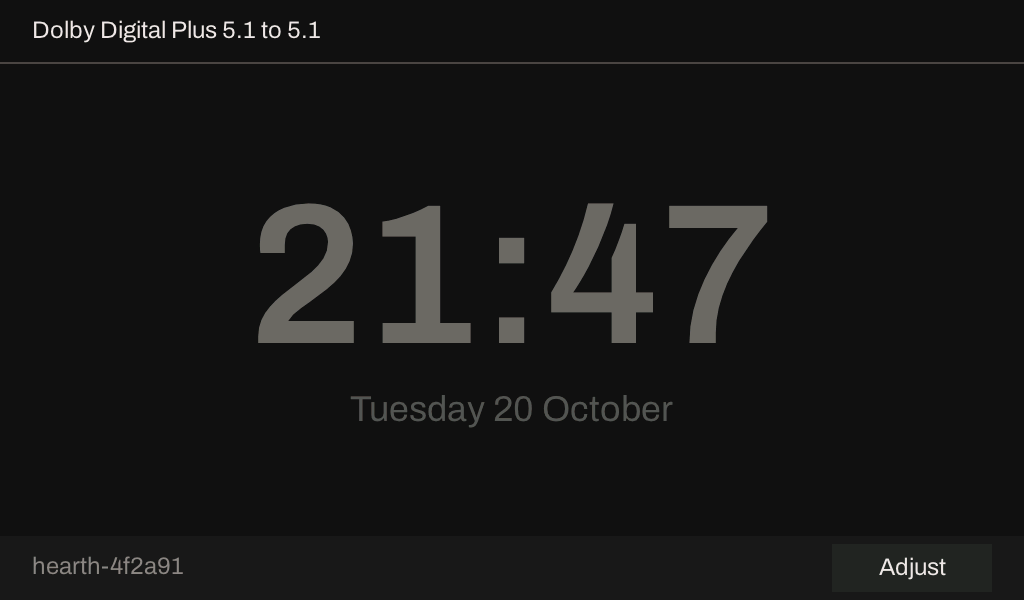
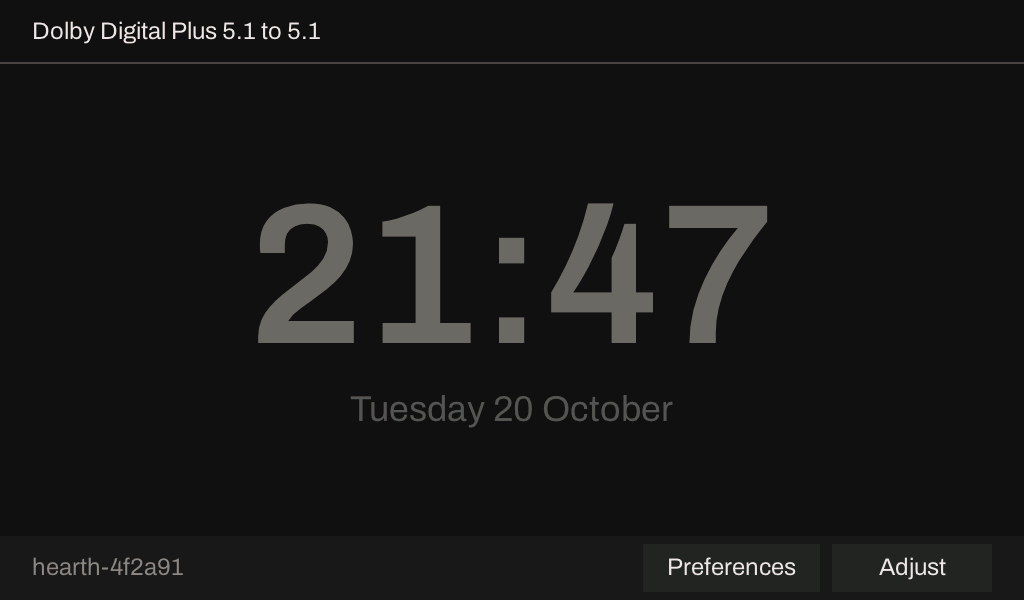
Docs: Adjust and Preferences, with their pictures retaken
The Preferences sheet's pictures (kit, a board with no touch, Dark chosen, and
320 by 240), the Adjust sheet, and every panel picture and the combined sheet
whose footer changed are retaken by panel_preview from the commit the manifest
names. The two pictures of the old Adjust sheet leave with their entries; the
planning page shows Preferences where it showed the third row.

Changed region(s): [[0.0312, 0.03, 0.3125, 0.09], [0.0312, 0.93, 0.1875, 0.96], [0.6562, 0.93, 0.7812, 0.96]]

diff --git a/planning/p4x-now-playing.md b/planning/p4x-now-playing.md
@@ -147,7 +147,7 @@ layout text changes.
 
 ![The speakers in a 5.1 room](../docs/hearth/screenshots/p4-panel-speakers-5-1.png)
 ![The speakers in a 7.1.4 room](../docs/hearth/screenshots/p4-panel-speakers-7-1-4.png)
-![The Adjust sheet with its third row](../docs/hearth/screenshots/p4-panel-controls.png)
+![Preferences, where the view and the dim time are now (they were Adjust's third row)](../docs/hearth/screenshots/p4-panel-prefs.png)
 ![The dark screen](../docs/hearth/screenshots/p4-panel-dimmed.png)
 
 ## The dark view
@@ -185,7 +185,7 @@ rule checked against `dimmed()` on every input it takes); the real screen code i
 which fails its run if the screen is not dark at the start, is not lit by a touch, is not lit at 28 s,
 is not dark at 32 s, or a second touch does not move it on (all pass); and a picture of the sheet:
 
-![The Adjust sheet with Dark chosen](../docs/hearth/screenshots/p4-panel-controls-dark.png)
+![Preferences with Dark chosen: the dim row says it is not used](../docs/hearth/screenshots/p4-panel-prefs-dark.png)
 
 **On the kit (2026-10-21, over the cable, the bench lock held).** The image of this change (`p4-rev3`,
 profile hash `ff9b27a6c4fd`, 2,562,880 bytes) was sent with `ota.py push` and accepted on its 30 s
